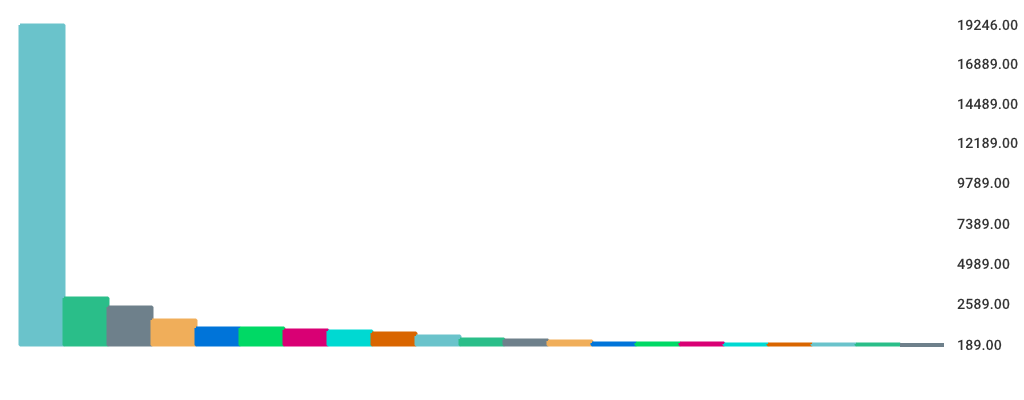
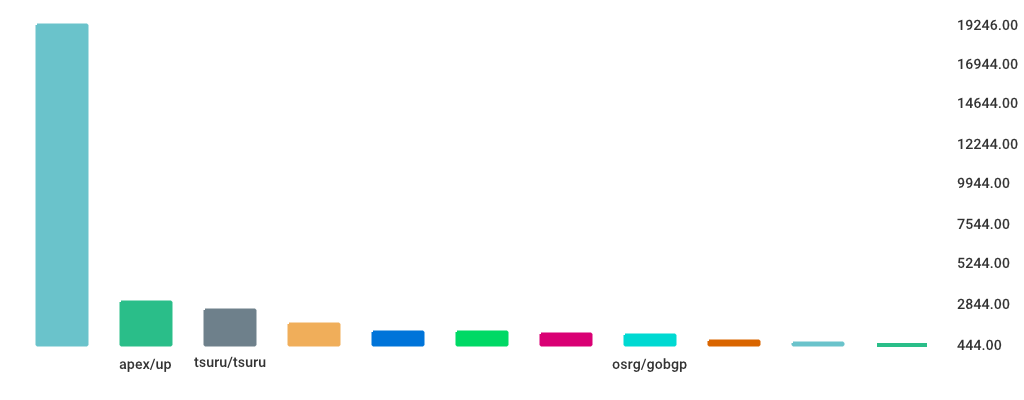
improvements in graphs

diff --git a/main.go b/main.go
@@ -89,17 +89,19 @@ func main() {
 	for _, repo := range repos {
 		log.Infof("%s with %d stars (using since %v)", repo.Name, repo.Stars, repo.Date)
 	}
+	log.Info("")
+	log.Info("")
+	log.Infof("\033[1mGRAPHS GENERATED:\033[0m")
 	graph, err := graphRepos(repos)
 	if err != nil {
 		log.WithError(err).Fatal("failed to graph repos")
 	}
-	fmt.Println()
-	log.Infof("repositories graph saved at %s", graph)
+	log.Info(graph)
 	graph, err = graphRepoStars(repos)
 	if err != nil {
 		log.WithError(err).Fatal("failed to graph repo stars")
 	}
-	log.Infof("repositories stars graph saved at %s", graph)
+	log.Info(graph)
 }
 
 func newRepo(ctx context.Context, client *github.Client, result github.CodeResult) (Repo, error) {
@@ -170,8 +172,9 @@ func exists(name string, rs []Repo) bool {
 func graphRepoStars(repos []Repo) (string, error) {
 	var filename = "stars.png"
 	var graph = chart.BarChart{
-		Title: "Top 10 repositories using GoReleaser by number of stargazers",
-		XAxis: chart.StyleShow(),
+		Title:      "Top 5 repositories using GoReleaser by number of stargazers",
+		TitleStyle: chart.StyleShow(),
+		XAxis:      chart.StyleShow(),
 		YAxis: chart.YAxis{
 			Style:     chart.StyleShow(),
 			NameStyle: chart.StyleShow(),
@@ -181,7 +184,7 @@ func graphRepoStars(repos []Repo) (string, error) {
 		return repos[i].Stars > repos[j].Stars
 	})
 	for i, repo := range repos {
-		if i > 10 {
+		if i > 5 {
 			break
 		}
 		graph.Bars = append(graph.Bars, chart.Value{
@@ -210,7 +213,8 @@ func graphRepos(repos []Repo) (string, error) {
 		series.YValues = append(series.YValues, float64(i))
 	}
 	var graph = chart.Chart{
-		Title: "Number of repositories using GoReleaser over time",
+		Title:      "Number of repositories using GoReleaser over time",
+		TitleStyle: chart.StyleShow(),
 		XAxis: chart.XAxis{
 			Name:      "Time",
 			NameStyle: chart.StyleShow(),
